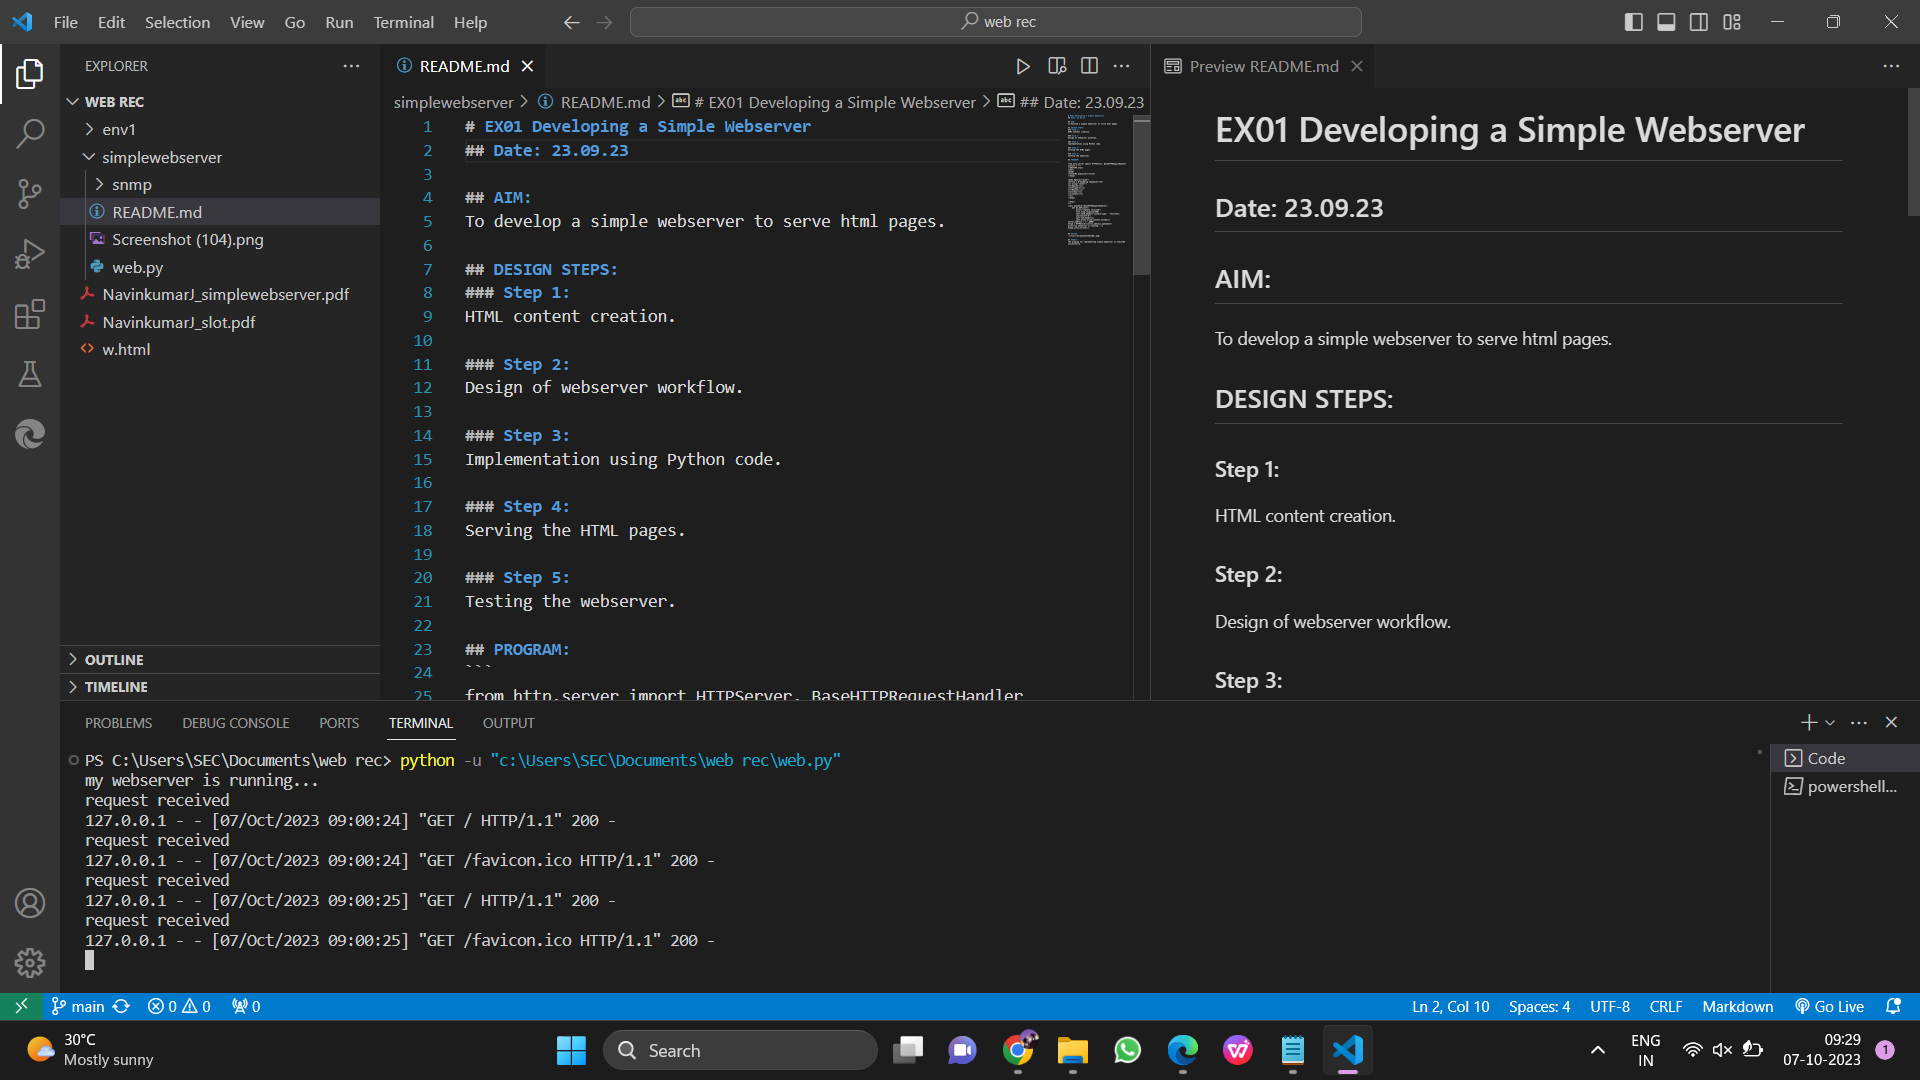
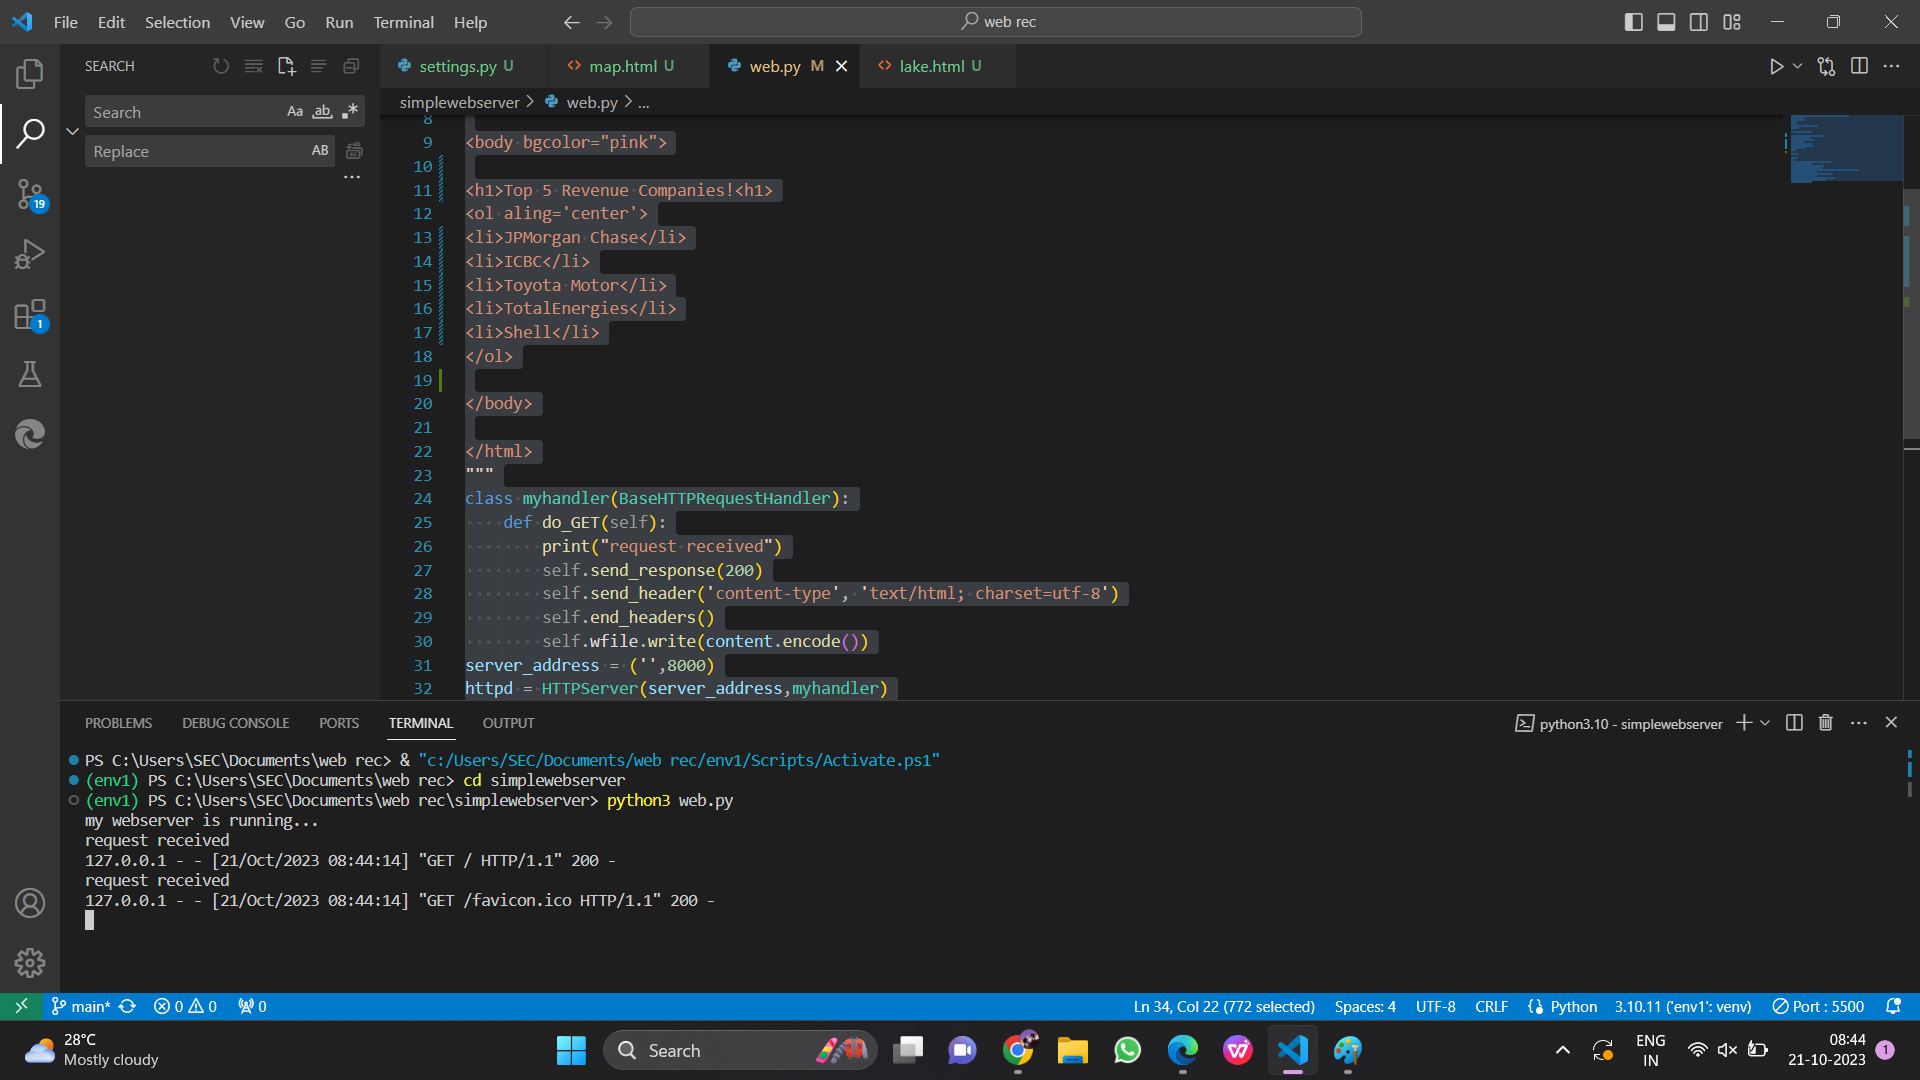
success

diff --git a/web.py b/web.py
@@ -7,14 +7,16 @@ content = """
 </head>
 
 <body bgcolor="pink">
-<h1>Top 5 E-Shopping Companies!<h1>
+
+<h1>Top 5 Revenue Companies!<h1>
 <ol aling='center'>
-<li>Amazon</li>
-<li>Flipkart</li>
-<li>Meesho</li>
-<li>e-bay</li>
-<li>shopsy</li>
+<li>JPMorgan Chase</li>
+<li>ICBC</li>
+<li>Toyota Motor</li>
+<li>TotalEnergies</li>
+<li>Shell</li>
 </ol>
+
 </body>
 
 </html>

diff --git a/README.md b/README.md
@@ -59,7 +59,7 @@ httpd.serve_forever()
 ## OUTPUT:
 ![image](Screenshot%20(105).png)
 
-![image](Screenshot%20(104).png)
+![image](Screenshot%20(106).png)
 
 ## RESULT:
 The program for implementing simple webserver is executed successfully.
